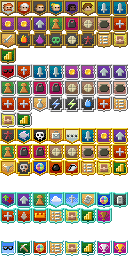
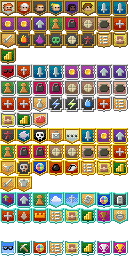
添加4个新徽章

Changed region(s): [[0.0, 0.6875, 0.25, 0.75], [0.875, 0.8125, 1.0, 0.875], [0.25, 0.4375, 0.375, 0.5]]

diff --git a/core/src/main/java/com/shatteredpixel/shatteredpixeldungeon/Badges.java b/core/src/main/java/com/shatteredpixel/shatteredpixeldungeon/Badges.java
@@ -34,6 +34,7 @@ import com.shatteredpixel.shatteredpixeldungeon.items.potions.Potion;
 import com.shatteredpixel.shatteredpixeldungeon.items.quest.Pickaxe;
 import com.shatteredpixel.shatteredpixeldungeon.items.remains.RemainsItem;
 import com.shatteredpixel.shatteredpixeldungeon.items.scrolls.Scroll;
+import com.shatteredpixel.shatteredpixeldungeon.items.weapon.Weapon;
 import com.shatteredpixel.shatteredpixeldungeon.items.weapon.melee.MeleeWeapon;
 import com.shatteredpixel.shatteredpixeldungeon.journal.Bestiary;
 import com.shatteredpixel.shatteredpixeldungeon.journal.Catalog;
@@ -120,6 +121,7 @@ public class Badges {
 		ALL_POTIONS_IDENTIFIED      , //still exists internally for pre-2.5 saves
 		ALL_SCROLLS_IDENTIFIED      , //still exists internally for pre-2.5 saves
 		CATALOG_POTIONS_SCROLLS     ( 50 ),
+		ALL_RAWFOODS_IDENTIFIED		( 58, BadgeType.JOURNAL ),
 		DEATH_FROM_ENEMY_MAGIC      ( 51 ),
 		DEATH_FROM_FRIENDLY_MAGIC   ( 52 ),
 		DEATH_FROM_SACRIFICE        ( 53 ),
@@ -158,6 +160,8 @@ public class Badges {
 		ALL_RINGS_IDENTIFIED        , //still exists internally for pre-2.5 saves
 		ALL_ARTIFACTS_IDENTIFIED    , //still exists internally for pre-2.5 saves
 		ALL_RARE_ENEMIES            ( 80, BadgeType.JOURNAL ), //no longer all, just 10 as of v3.1
+		ALL_ENCHANTMENTS_IDENTIFIED	( 88, BadgeType.JOURNAL ),
+		ALL_GLYPHES_IDENTIFIED		( 89, BadgeType.JOURNAL ),
 		DEATH_FROM_GRIM_TRAP        ( 81 ), //also disintegration traps
 		VICTORY                     ( 82 ),
 		BOSS_CHALLENGE_1            ( 83 ),
@@ -177,6 +181,7 @@ public class Badges {
 		ALL_ARMOR_IDENTIFIED        , //still exists internally for pre-2.5 saves
 		ALL_WANDS_IDENTIFIED        , //still exists internally for pre-2.5 saves
 		ALL_ITEMS_IDENTIFIED        , //still exists internally for pre-2.5 saves
+		ALL_FOODS_IDENTIFIED		( 111, BadgeType.JOURNAL ),
 		VICTORY_WARRIOR,
 		VICTORY_MAGE,
 		VICTORY_ROGUE,
@@ -708,6 +713,30 @@ public class Badges {
 			displayBadge(Badge.RODNEY);
 		}
 
+		boolean valid = true;
+
+		for (Class<?> raw : Catalog.RAW_FOOD.items()) {
+			if (!Catalog.isSeen(raw)) valid = false;
+		}
+		if (valid) unlock(Badge.ALL_RAWFOODS_IDENTIFIED);
+
+		valid = true;
+		for (Class<?> ench : Catalog.ENCHANTMENTS.items()) {
+			if (!Catalog.isSeen(ench)) valid = false;
+		}
+		if (valid) unlock(Badge.ALL_ENCHANTMENTS_IDENTIFIED);
+
+		valid = true;
+		for (Class<?> glyph : Catalog.GLYPHS.items()) {
+			if (!Catalog.isSeen(glyph)) valid = false;
+		}
+		if (valid) unlock(Badge.ALL_GLYPHES_IDENTIFIED);
+
+		valid = true;
+		for (Class<?> food : Catalog.FOOD.items()) {
+			if (!Catalog.isSeen(food)) valid = false;
+		}
+		if (valid) unlock(Badge.ALL_FOODS_IDENTIFIED);
 	}
 	
 	public static void validateDeathFromFire() {
